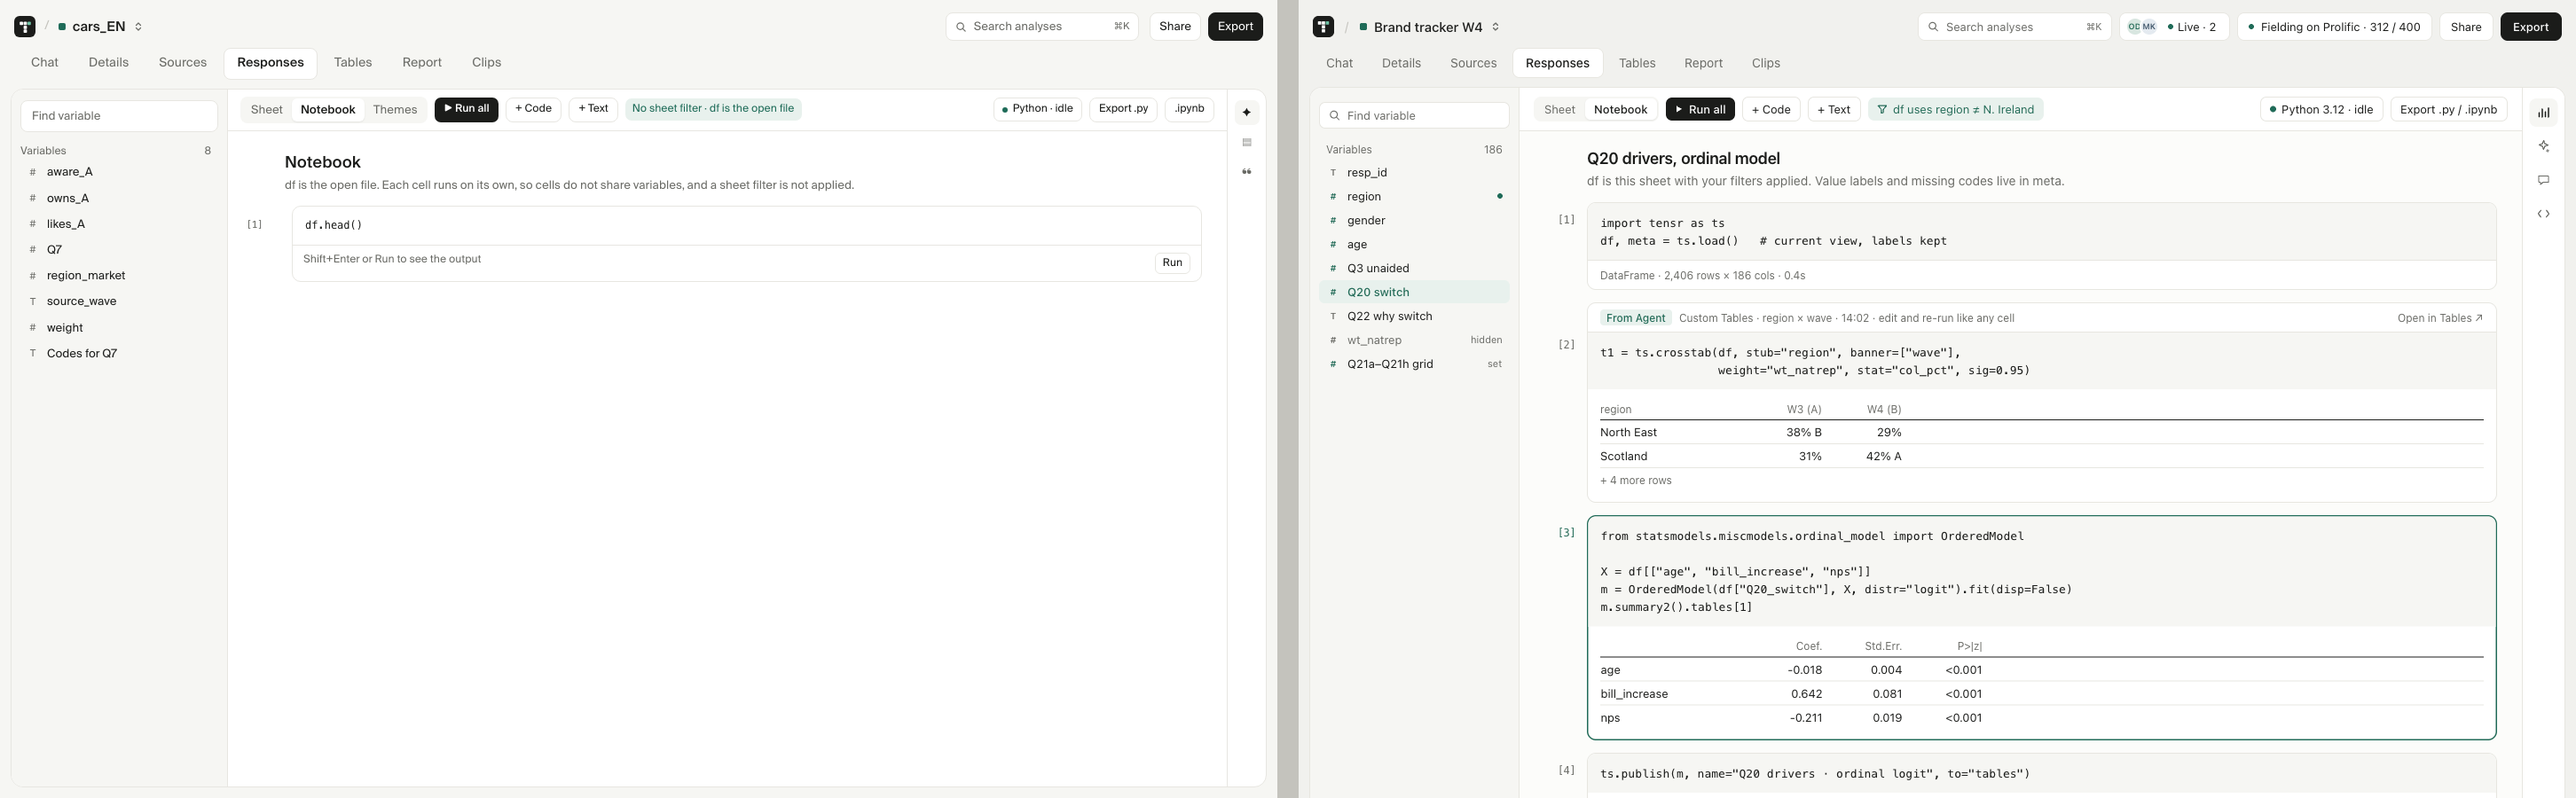
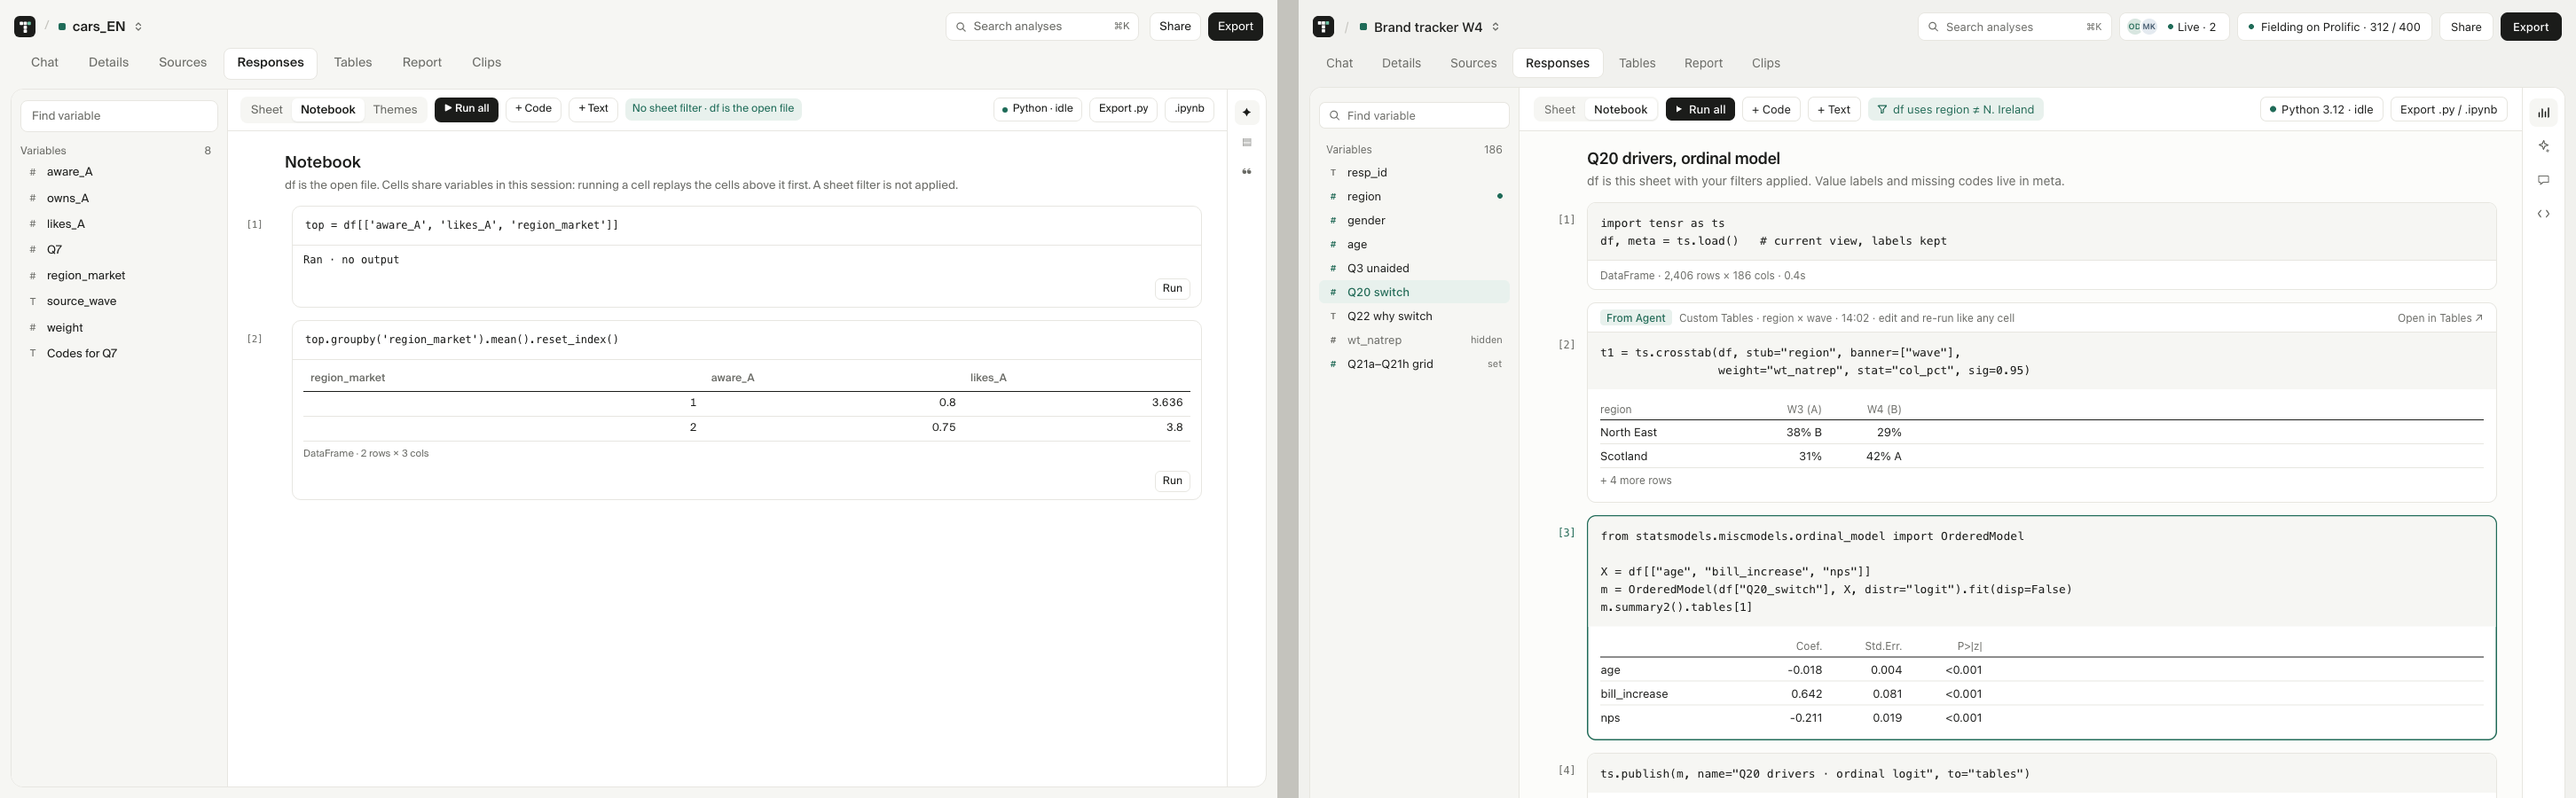
Notebook: cells share variables within a session, and DataFrames render as tables.
compare.png: design/paper/4b-notebook/compare.png

diff --git a/src/components/flow/notebook-panel.tsx b/src/components/flow/notebook-panel.tsx
@@ -3,6 +3,7 @@
 import { useEffect, useState, type ReactNode } from 'react';
 import { Button } from '@/components/ui/button';
 import { Textarea } from '@/components/ui/textarea';
+import { Table } from '@/components/ui/table';
 import { flowJson } from '@/lib/flow-api';
 
 export type NotebookCell = {
@@ -10,8 +11,32 @@ export type NotebookCell = {
   kind: 'code' | 'text';
   source: string;
   output: string;
+  table?: Record<string, unknown>[] | null;
   running: boolean;
 };
+
+/** Earlier code cells run first with their output silenced, so names carry over within the session. */
+export function sessionCode(cells: NotebookCell[], index: number): string {
+  const earlier = cells
+    .slice(0, index)
+    .filter(cell => cell.kind === 'code' && cell.source.trim())
+    .map(cell => cell.source);
+  const current = cells[index]?.source || '';
+  if (!earlier.length) return current;
+  return [
+    'import contextlib as _tensr_ctx, io as _tensr_io',
+    'with _tensr_ctx.redirect_stdout(_tensr_io.StringIO()):',
+    `    exec(${JSON.stringify(earlier.join('\n\n'))}, globals())`,
+    current,
+  ].join('\n');
+}
+
+export function notebookTable(output: unknown): Record<string, unknown>[] | null {
+  if (!output || typeof output !== 'object') return null;
+  const value = output as { type?: string; data?: unknown };
+  if (value.type !== 'table' || !Array.isArray(value.data)) return null;
+  return value.data.filter(row => row && typeof row === 'object') as Record<string, unknown>[];
+}
 
 let cellKey = 0;
 
@@ -35,6 +60,9 @@ export function notebookText(result: {
   if (typeof result.stdout === 'string' && result.stdout) return result.stdout;
   if (typeof result.output === 'string') return result.output;
   if (result.output == null) return '';
+  const typed = result.output as { type?: string; data?: unknown };
+  if (typed && typed.type === 'text' && typeof typed.data === 'string') return typed.data;
+  if (typed && typed.type === 'table') return '';
   try {
     return JSON.stringify(result.output, null, 2);
   } catch {
@@ -90,23 +118,33 @@ export function FlowNotebook({ datasetId, lead }: { datasetId?: string; lead?: R
     setCells(current => current.map(cell => (cell.id === id ? { ...cell, ...next } : cell)));
   };
 
-  const run = (cell: NotebookCell) => {
-    if (!datasetId || cell.kind !== 'code' || !cell.source.trim()) return;
+  const run = (cell: NotebookCell, list: NotebookCell[] = cells): Promise<void> => {
+    if (!datasetId || cell.kind !== 'code' || !cell.source.trim()) return Promise.resolve();
+    const index = list.findIndex(item => item.id === cell.id);
     const firstLoad = !loadedOnce;
     patch(cell.id, {
       running: true,
+      table: null,
       output: firstLoad ? 'Loading data…' : 'Running…',
     });
-    void flowJson<{ stdout?: string | null; output?: unknown; error?: string | null }>(
+    return flowJson<{ stdout?: string | null; output?: unknown; error?: string | null }>(
       '/api/execute/python',
       {
         method: 'POST',
-        body: JSON.stringify({ code: cell.source, dataset_id: datasetId, save_as_dataset: false }),
+        body: JSON.stringify({
+          code: sessionCode(list, index < 0 ? 0 : index),
+          dataset_id: datasetId,
+          save_as_dataset: false,
+        }),
       }
     )
       .then(result => {
         setLoadedOnce(true);
-        patch(cell.id, { running: false, output: notebookText(result) });
+        patch(cell.id, {
+          running: false,
+          output: notebookText(result) || (result.error ? '' : 'Ran · no output'),
+          table: result.error ? null : notebookTable(result.output),
+        });
       })
       .catch(err =>
         patch(cell.id, {
@@ -116,15 +154,17 @@ export function FlowNotebook({ datasetId, lead }: { datasetId?: string; lead?: R
       );
   };
 
-  const runAll = () => {
-    cells.filter(cell => cell.kind === 'code').forEach(run);
+  const runAll = async () => {
+    for (const cell of cells.filter(item => item.kind === 'code')) {
+      await run(cell, cells);
+    }
   };
 
   return (
     <div className="notebook-page">
       <div className="notebook-bar">
         {lead}
-        <Button className="notebook-run-all" type="button" onClick={runAll}>
+        <Button className="notebook-run-all" type="button" onClick={() => void runAll()}>
           ▶ Run all
         </Button>
         <Button
@@ -165,8 +205,8 @@ export function FlowNotebook({ datasetId, lead }: { datasetId?: string; lead?: R
         <div className="notebook-head">
           <h2>Notebook</h2>
           <p>
-            df is the open file. Each cell runs on its own, so cells do not share variables, and a
-            sheet filter is not applied.
+            df is the open file. Cells share variables in this session: running a cell replays the
+            cells above it first. A sheet filter is not applied.
           </p>
         </div>
         {cells.map((cell, index) => (
@@ -184,13 +224,44 @@ export function FlowNotebook({ datasetId, lead }: { datasetId?: string; lead?: R
                 onKeyDown={event => {
                   if (cell.kind === 'code' && event.key === 'Enter' && event.shiftKey) {
                     event.preventDefault();
-                    run(cell);
+                    void run(cell);
                   }
                 }}
               />
               {cell.kind === 'code' ? (
                 <div className="notebook-out">
-                  {cell.output ? (
+                  {cell.table && cell.table.length ? (
+                    <div className="notebook-table">
+                      <Table className="flow-table">
+                        <thead>
+                          <tr>
+                            {Object.keys(cell.table[0]).map(key => (
+                              <th key={key}>{key}</th>
+                            ))}
+                          </tr>
+                        </thead>
+                        <tbody>
+                          {cell.table.slice(0, 20).map((row, rowIndex) => (
+                            <tr key={rowIndex}>
+                              {Object.keys(cell.table![0]).map(key => (
+                                <td key={key} data-num={typeof row[key] === 'number' || undefined}>
+                                  {row[key] == null
+                                    ? ''
+                                    : typeof row[key] === 'number'
+                                      ? Number((row[key] as number).toFixed(3)).toString()
+                                      : String(row[key])}
+                                </td>
+                              ))}
+                            </tr>
+                          ))}
+                        </tbody>
+                      </Table>
+                      <span className="flow-muted">
+                        DataFrame · {cell.table.length} row{cell.table.length === 1 ? '' : 's'} ×{' '}
+                        {Object.keys(cell.table[0]).length} cols
+                      </span>
+                    </div>
+                  ) : cell.output ? (
                     <pre className="notebook-output">{cell.output}</pre>
                   ) : (
                     <span className="flow-muted">
@@ -201,7 +272,7 @@ export function FlowNotebook({ datasetId, lead }: { datasetId?: string; lead?: R
                     className="notebook-run"
                     type="button"
                     disabled={cell.running}
-                    onClick={() => run(cell)}
+                    onClick={() => void run(cell)}
                   >
                     {cell.running ? 'Running…' : 'Run'}
                   </Button>

diff --git a/src/components/flow/notebook-panel.test.ts b/src/components/flow/notebook-panel.test.ts
@@ -18,3 +18,27 @@ describe('notebook panel', () => {
     );
   });
 });
+
+describe('notebook session', () => {
+  it('replays earlier code cells silently before the current one', () => {
+    const { sessionCode } = jest.requireActual('./notebook-panel');
+    const cells = [
+      { id: 'a', kind: 'code', source: 'x = 41', output: '', running: false },
+      { id: 'b', kind: 'text', source: 'note', output: '', running: false },
+      { id: 'c', kind: 'code', source: 'x + 1', output: '', running: false },
+    ];
+    expect(sessionCode(cells, 0)).toBe('x = 41');
+    const code = sessionCode(cells, 2);
+    expect(code).toContain('redirect_stdout');
+    expect(code).toContain('exec("x = 41", globals())');
+    expect(code.endsWith('\nx + 1')).toBe(true);
+  });
+
+  it('reads a table output', () => {
+    const { notebookTable, notebookText } = jest.requireActual('./notebook-panel');
+    const output = { type: 'table', data: [{ a: 1 }] };
+    expect(notebookTable(output)).toEqual([{ a: 1 }]);
+    expect(notebookText({ output })).toBe('');
+    expect(notebookText({ output: { type: 'text', data: '42' } })).toBe('42');
+  });
+});

diff --git a/src/app/flow/flow.css b/src/app/flow/flow.css
@@ -9220,3 +9220,40 @@ select.flow-input {
   border: 1.5px solid #b0b2ac;
   background: transparent;
 }
+
+.notebook-out {
+  flex-direction: column;
+  align-items: stretch;
+}
+
+.notebook-out .notebook-run {
+  align-self: flex-end;
+}
+
+.notebook-table {
+  display: flex;
+  flex-direction: column;
+  gap: 6px;
+  overflow-x: auto;
+}
+
+.notebook-table .flow-table th,
+.notebook-table .flow-table td {
+  padding: 5px 8px;
+  font-size: 12px;
+}
+
+.notebook-table .flow-table th {
+  position: static;
+  background: transparent;
+  border-bottom: 1px solid var(--color-ink);
+}
+
+.notebook-table .flow-muted {
+  font-size: 11px;
+}
+
+.notebook-table td[data-num] {
+  text-align: right;
+  font-variant-numeric: tabular-nums;
+}

diff --git a/design/paper/PROGRESS.md b/design/paper/PROGRESS.md
@@ -78,7 +78,7 @@ Each folder should contain `screen.png` (Paper, 1x) and `screen.tsx` (Paper `get
 - [x] **3 Sources** (`288-0`, `3-sources`) — **matched**, wired. The Paper fielding card is kept and styled coming soon: count, bar, four stats, disabled Sync now, Connection settings, and Open in Prolific, and a Quotas panel. Connected is two across with file icons. Connector tiles are dashed with a coming-soon pill, then Datasets and Context. `compare.png` differs in data and in the coming-soon fielding values.
 - [x] **3b Stack waves** (`93J-0`, `3b-stack-waves`) — **matched**, wired. 830px dialog with count pills, a full-bleed table with uppercase headers, pill decisions, and a footer with Show all, the note, Cancel, and Stack waves. System columns are left out of the mapping list. Flow's colour tokens now also apply to dialogs and popovers, which portal outside `.flow`; some of their text had no colour before. `compare.png` differs in data, plus compact file pickers when a project has more than two files.
 - [x] **3c Interviews** (`17DV-0`, `3c-interviews`) — **matched**, wired, rebuilt to the artboard: the Sources tab stays active, numbered rail items with codes, a Codes chip, speaker filter, and audio time (coming soon), an eyebrow, title, and tags, timestamped passages with coded quote blocks and chips, an agent summary card (coming soon), Agent/Variable/Evidence side tabs, a count block, the passage details, and Recode, Play clip (coming soon), and Cite in report. `compare.png` differs in data: one short test transcript with no stored text.
-- [x] **4b Notebook** (`5ER-0`, `4b-notebook`) — **matched**, wired, rebuilt to the artboard: the rail lists variables with type marks and Find variable, one toolbar with the view switch, Run all, + Code, + Text, the df chip, kernel state, and exports, a title and note, [n] gutters, mono code cards with an output strip and Run, and the right panel folded to an icon strip. `compare.png` differs in data: one cell, no saved runs.
+- [x] **4b Notebook** (`5ER-0`, `4b-notebook`) — **matched**, wired, rebuilt to the artboard. Cells share variables within a session: a run replays the code cells above it with their output silenced, and Run all runs in order. A DataFrame result renders as a table with its shape. `compare.png` shows two cells, where cell 2 uses `top` from cell 1. Remaining differences are data, the sheet-filter chip (a filter is not applied to df), and the From Agent cell.
 - [x] **4e Weighting modal** (`97E-0`, `4e-weighting`) — **matched**, wired, rebuilt from the export: lead, title, and copy, current file versus new weighted file cards, the nothing-is-overwritten note, a Variable · code table grouped by variable with inline target inputs and capped rows in warn, a well strip with Efficiency, Effective base, Weight range, and Converged, and a footer with + Add target, Load targets from, Cap, Cancel, and Save as new file. `compare.png` differs in data: no rake has run yet.
 - [x] **4f Run ANOVA modal** (`CJO-0`, `4f-anova`) — **matched**, wired, restyled to the export: header with the Form/Code segment, a tinted form pane (dependent, factor, a post-hoc segment, Report checks), a result pane (live line, accent summary, group and source tables, pairs), and a footer with the syntax line, Copy, Ask agent to explain, Add to report, Cancel, and Run. `compare.png` differs in data and in the means plot and filter row, which the API does not return.
 - [x] **5b Tables chart** (`1E0U-0`, `5b-tables-chart`) — **matched**, wired, rebuilt from the export: a title (y by x) with base, a Table/Chart switch, legend and fit label, a gridded plot with axis ticks, axis captions, an Other tables strip that opens each saved table, and a settings pane with icon chart types, labelled X, Y, and Weight rows, switches for regression line and jitter, filter chips with + Add, and an Export PNG block. There is no Colour by and no hover card, because the chart route returns no categories or row ids. `compare.png` differs in data.
